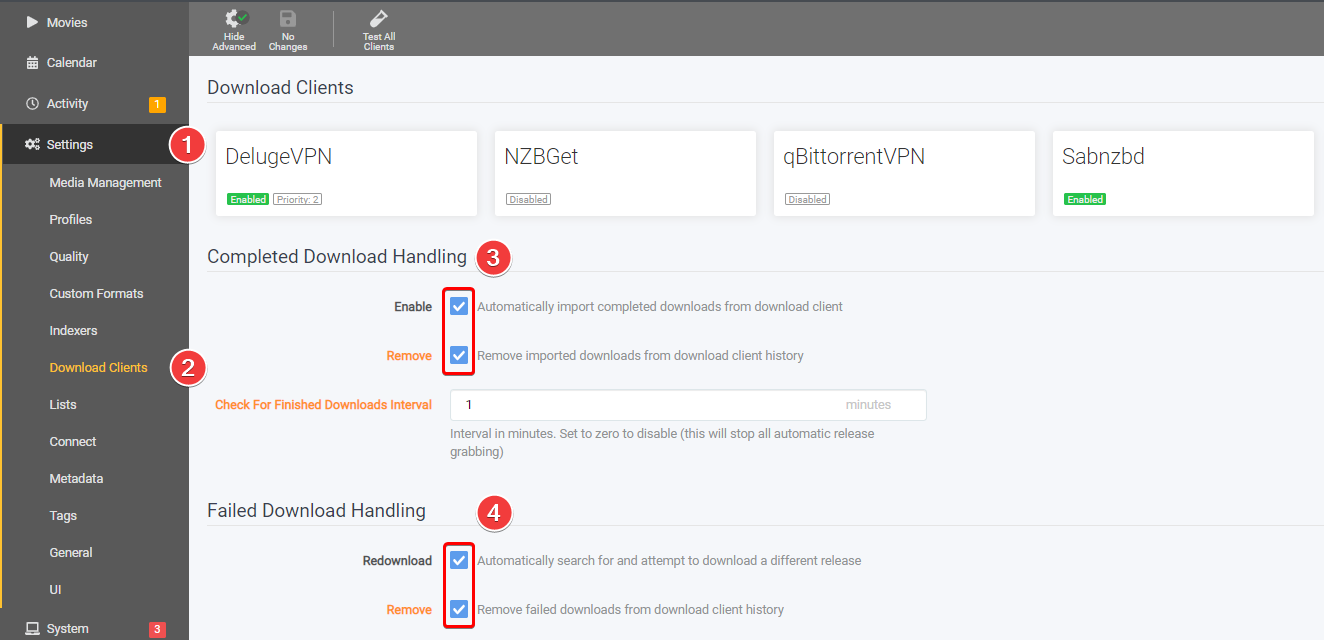
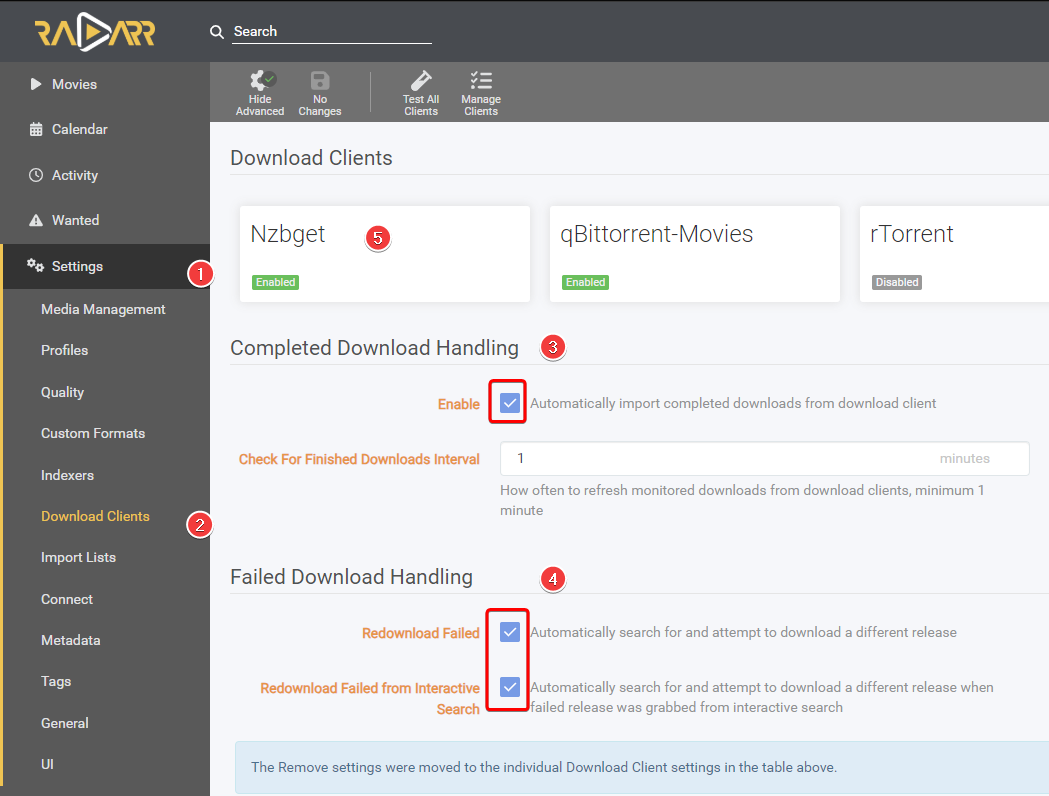
Updated the Sonarr/Radarr screenshots and instructions

diff --git a/docs/Downloaders/NZBGet/Basic-Setup.md b/docs/Downloaders/NZBGet/Basic-Setup.md
@@ -663,7 +663,7 @@ The Extension Manager is a tool for downloading, updating and deleting NZBGet ex
 
 ## Recommended Sonarr/Radarr Settings
 
-The following settings are recommended for Sonarr/Radarr, else it could happen that Sonarr/Radarr will miss downloads that are still in the queue/history.
+The following settings are recommended for Sonarr/Radarr, otherwise, Sonarr/Radarr could miss downloads that are still in the queue/history.
 Being that Sonarr/Radarr only looks at the last xx amount in the queue/history.
 
 ### Sonarr
@@ -674,9 +674,9 @@ Being that Sonarr/Radarr only looks at the last xx amount in the queue/history.
 
     ![!Sonarr: Settings => Download Clients](images/sonarr-settings-download-clients.png)
 
-    Make sure you check both boxes under `Completed Download Handling` in step 3.
+    Make sure you check all three boxes under `Completed Download Handling` in step 3.
 
-    Select NZBGet in step 4 and scroll down to the bottom of the new window where it says `Completed Download Handling` and check both boxes.
+    In step 4, select NZBGet, scroll to the bottom of the new window where it says `Completed Download Handling`, and check both boxes.
 
     ![!Sonarr: Download Clients - SABnzbd](images/sonarr-download-clients-nzbget.png)
 
@@ -688,8 +688,12 @@ Being that Sonarr/Radarr only looks at the last xx amount in the queue/history.
 
     ![!Radarr: Settings => Download Clients](images/radarr-settings-download-clients.png)
 
-    Make sure you check both boxes under `Completed Download Handling` in step 3,
+    Make sure you enable `Completed Download Handling` in step 3,
 
     and both boxes under `Failed Download Handling` in step 4.
+
+    In step 5, select NZBGet, scroll to the bottom of the new window where it says `Completed Download Handling`, and check both boxes.
+
+    ![!Radarr: Download Clients - SABnzbd](images/radarr-download-clients-nzbget.png)
 
 --8<-- "includes/support.md"
